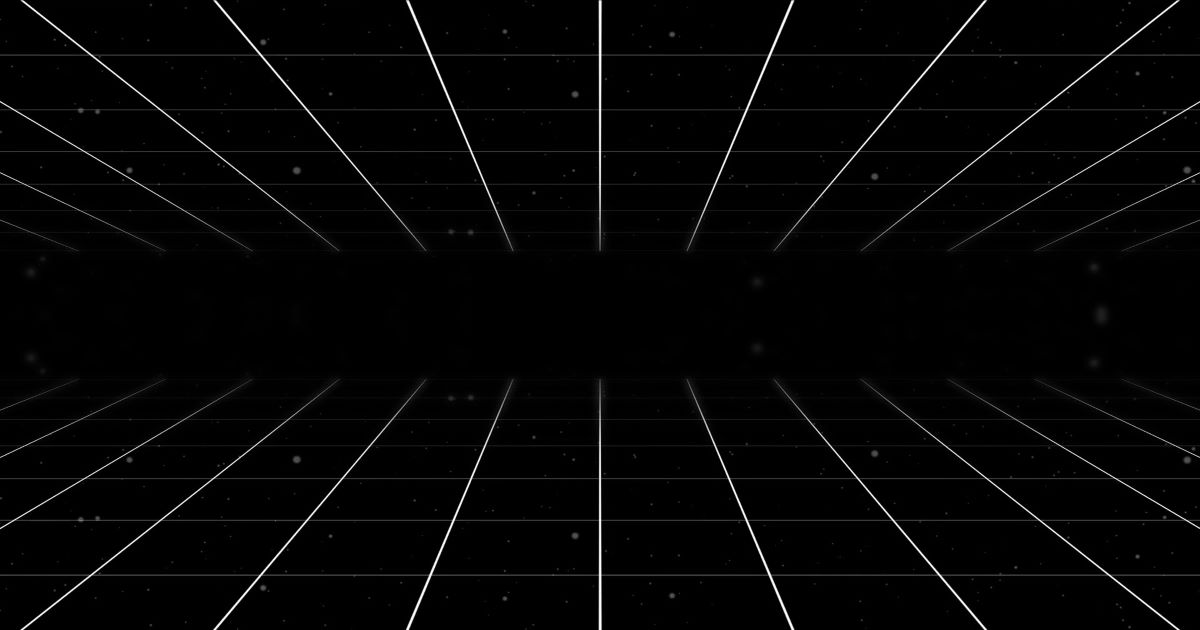
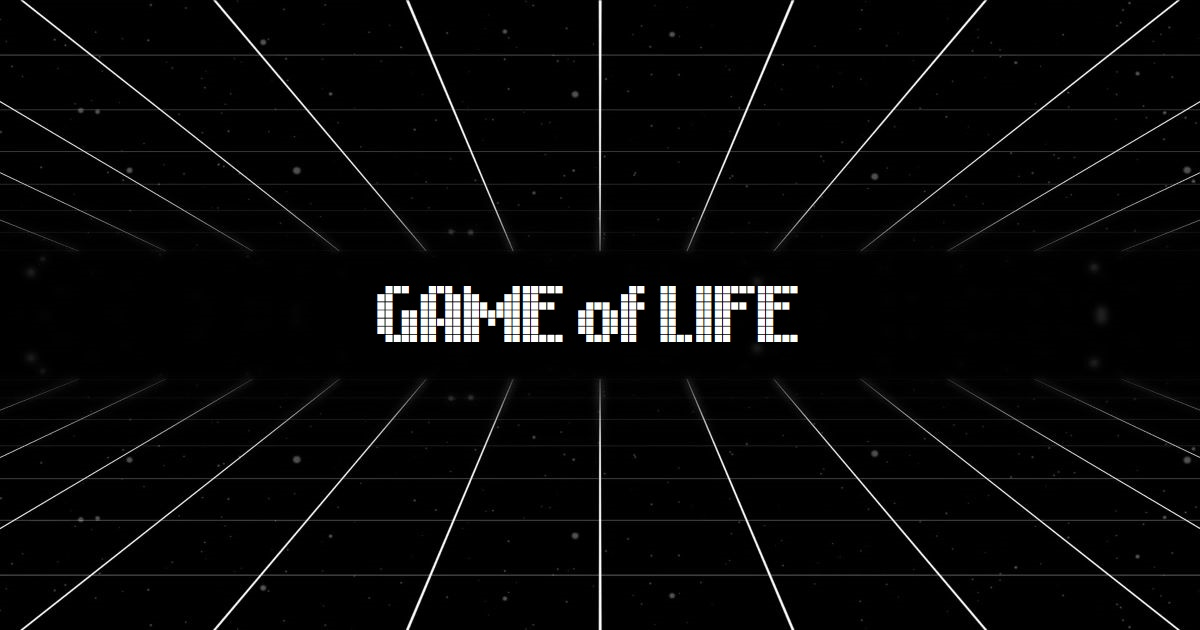
fix to og image

Changed region(s): [[0.3083, 0.4524, 0.6783, 0.5429]]

diff --git a/build/static/css/main.6c1cfc5a.chunk.css b/build/static/css/main.6c1cfc5a.chunk.css
@@ -1,0 +1,4 @@
+/*! tailwindcss v2.1.0 | MIT License | https://tailwindcss.com */
+
+/*! modern-normalize v1.0.0 | MIT License | https://github.com/sindresorhus/modern-normalize */:root{-moz-tab-size:4;tab-size:4}html{line-height:1.15;-webkit-text-size-adjust:100%}body{margin:0;font-family:system-ui,-apple-system,"Segoe UI",Roboto,Helvetica,Arial,sans-serif,"Apple Color Emoji","Segoe UI Emoji"}hr{height:0;color:inherit}abbr[title]{-webkit-text-decoration:underline dotted;text-decoration:underline dotted}b,strong{font-weight:bolder}code,kbd,pre,samp{font-family:ui-monospace,SFMono-Regular,Consolas,"Liberation Mono",Menlo,monospace;font-size:1em}small{font-size:80%}sub,sup{font-size:75%;line-height:0;position:relative;vertical-align:baseline}sub{bottom:-.25em}sup{top:-.5em}table{text-indent:0;border-color:inherit}button,input,optgroup,select,textarea{font-family:inherit;font-size:100%;line-height:1.15;margin:0}button,select{text-transform:none}[type=button],[type=submit],button{-webkit-appearance:button}legend{padding:0}progress{vertical-align:baseline}summary{display:list-item}blockquote,dd,dl,figure,h1,h2,h3,h4,h5,h6,hr,p,pre{margin:0}button{background-color:transparent;background-image:none}button:focus{outline:1px dotted;outline:5px auto -webkit-focus-ring-color}fieldset,ol,ul{margin:0;padding:0}ol,ul{list-style:none}html{font-family:ui-sans-serif,system-ui,-apple-system,BlinkMacSystemFont,"Segoe UI",Roboto,"Helvetica Neue",Arial,"Noto Sans",sans-serif,"Apple Color Emoji","Segoe UI Emoji","Segoe UI Symbol","Noto Color Emoji";line-height:1.5}body{font-family:inherit;line-height:inherit}*,:after,:before{box-sizing:border-box;border:0 solid #e5e7eb}hr{border-top-width:1px}img{border-style:solid}textarea{resize:vertical}input::-webkit-input-placeholder,textarea::-webkit-input-placeholder{opacity:1;color:#9ca3af}input:-ms-input-placeholder,textarea:-ms-input-placeholder{opacity:1;color:#9ca3af}input::placeholder,textarea::placeholder{opacity:1;color:#9ca3af}button{cursor:pointer}table{border-collapse:collapse}h1,h2,h3,h4,h5,h6{font-size:inherit;font-weight:inherit}a{color:inherit;text-decoration:inherit}button,input,optgroup,select,textarea{padding:0;line-height:inherit;color:inherit}code,kbd,pre,samp{font-family:ui-monospace,SFMono-Regular,Menlo,Monaco,Consolas,"Liberation Mono","Courier New",monospace}audio,canvas,embed,iframe,img,object,svg,video{display:block;vertical-align:middle}img,video{max-width:100%;height:auto}@font-face{font-family:Nokian;src:local("Nokian"),url(/static/media/Nokian.13072ad6.ttf) format("truetype")}@font-face{font-family:Bloxat;src:local("Bloxat"),url(/static/media/Bloxat.50277f50.ttf) format("truetype")}@font-face{font-family:McFont;src:local("McFont"),url(/static/media/McFont.82ba0891.otf) format("opentype")}b{--tw-text-opacity:1;color:rgba(229,231,235,var(--tw-text-opacity))}.space-y-3>:not([hidden])~:not([hidden]){--tw-space-y-reverse:0;margin-top:calc(0.75rem*(1 - var(--tw-space-y-reverse)));margin-bottom:calc(0.75rem*var(--tw-space-y-reverse))}.space-y-4>:not([hidden])~:not([hidden]){--tw-space-y-reverse:0;margin-top:calc(1rem*(1 - var(--tw-space-y-reverse)));margin-bottom:calc(1rem*var(--tw-space-y-reverse))}.bg-fixed{background-attachment:fixed}.bg-black{--tw-bg-opacity:1;background-color:rgba(0,0,0,var(--tw-bg-opacity))}.bg-white{--tw-bg-opacity:1;background-color:rgba(255,255,255,var(--tw-bg-opacity))}.bg-gray-200{--tw-bg-opacity:1;background-color:rgba(229,231,235,var(--tw-bg-opacity))}.bg-gray-500{--tw-bg-opacity:1;background-color:rgba(107,114,128,var(--tw-bg-opacity))}.bg-gray-800{--tw-bg-opacity:1;background-color:rgba(31,41,55,var(--tw-bg-opacity))}.bg-red-600{--tw-bg-opacity:1;background-color:rgba(220,38,38,var(--tw-bg-opacity))}.bg-yellow-600{--tw-bg-opacity:1;background-color:rgba(217,119,6,var(--tw-bg-opacity))}.bg-blue-600{--tw-bg-opacity:1;background-color:rgba(37,99,235,var(--tw-bg-opacity))}.hover\:bg-gray-900:hover{--tw-bg-opacity:1;background-color:rgba(17,24,39,var(--tw-bg-opacity))}.bg-gradient-to-r{background-image:linear-gradient(90deg,var(--tw-gradient-stops))}.from-gray-500{--tw-gradient-from:#6b7280;--tw-gradient-stops:var(--tw-gradient-from),var(--tw-gradient-to,rgba(107,114,128,0))}.to-gray-800{--tw-gradient-to:#1f2937}.bg-center{background-position:50%}.bg-cover{background-size:cover}.border-white{--tw-border-opacity:1;border-color:rgba(255,255,255,var(--tw-border-opacity))}.border-gray-200{--tw-border-opacity:1;border-color:rgba(229,231,235,var(--tw-border-opacity))}.border-gray-700{--tw-border-opacity:1;border-color:rgba(55,65,81,var(--tw-border-opacity))}.border-gray-900{--tw-border-opacity:1;border-color:rgba(17,24,39,var(--tw-border-opacity))}.border-opacity-50{--tw-border-opacity:0.5}.rounded-md{border-radius:.375rem}.rounded-xl{border-radius:.75rem}.rounded-full{border-radius:9999px}.border-2{border-width:2px}.border-4{border-width:4px}.border-8{border-width:8px}.border{border-width:1px}.border-t-0{border-top-width:0}.border-r-0{border-right-width:0}.border-b-0{border-bottom-width:0}.border-l-0{border-left-width:0}.cursor-pointer{cursor:pointer}.inline-block{display:inline-block}.flex{display:-webkit-flex;display:flex}.inline-flex{display:-webkit-inline-flex;display:inline-flex}.table{display:table}.grid{display:grid}.hidden{display:none}.flex-row{-webkit-flex-direction:row;flex-direction:row}.flex-col{-webkit-flex-direction:column;flex-direction:column}.items-center{-webkit-align-items:center;align-items:center}.items-baseline{-webkit-align-items:baseline;align-items:baseline}.justify-items-end{justify-items:end}.justify-center{-webkit-justify-content:center;justify-content:center}.justify-between{-webkit-justify-content:space-between;justify-content:space-between}.justify-around{-webkit-justify-content:space-around;justify-content:space-around}.flex-1{-webkit-flex:1 1 0%;flex:1 1 0%}.font-header{font-family:Nokian}.font-text{font-family:McFont}.font-semibold{font-weight:600}.font-bold{font-weight:700}.h-2{height:.5rem}.h-8{height:2rem}.h-12{height:3rem}.h-14{height:3.5rem}.h-16{height:4rem}.h-20{height:5rem}.h-48{height:12rem}.h-full{height:100%}.h-screen{height:100vh}.text-xs{font-size:.75rem;line-height:1rem}.text-sm{font-size:.875rem;line-height:1.25rem}.text-lg{font-size:1.125rem}.text-lg,.text-xl{line-height:1.75rem}.text-xl{font-size:1.25rem}.text-2xl{font-size:1.5rem;line-height:2rem}.text-5xl{font-size:3rem;line-height:1}.leading-relaxed{line-height:1.625}.my-2{margin-top:.5rem;margin-bottom:.5rem}.my-8{margin-top:2rem;margin-bottom:2rem}.mx-8{margin-left:2rem;margin-right:2rem}.mx-auto{margin-left:auto;margin-right:auto}.mt-1{margin-top:.25rem}.mt-2{margin-top:.5rem}.mb-2{margin-bottom:.5rem}.ml-2{margin-left:.5rem}.mt-3{margin-top:.75rem}.mb-3{margin-bottom:.75rem}.mt-4{margin-top:1rem}.mr-4{margin-right:1rem}.mt-5{margin-top:1.25rem}.mb-6{margin-bottom:1.5rem}.mt-8{margin-top:2rem}.min-h-full{min-height:100%}.min-h-screen{min-height:100vh}.min-w-full{min-width:100%}.opacity-90{opacity:.9}.focus\:outline-none:focus{outline:2px solid transparent;outline-offset:2px}.overflow-hidden{overflow:hidden}.overflow-x-auto{overflow-x:auto}.p-3{padding:.75rem}.py-1{padding-top:.25rem;padding-bottom:.25rem}.py-2{padding-top:.5rem;padding-bottom:.5rem}.px-6{padding-left:1.5rem;padding-right:1.5rem}.fixed{position:fixed}.absolute{position:absolute}.relative{position:relative}.inset-0{top:0;right:0;bottom:0;left:0}.right-2{right:.5rem}.bottom-2{bottom:.5rem}.left-5{left:1.25rem}.bottom-8{bottom:2rem}.right-12{right:3rem}*{--tw-shadow:0 0 transparent;--tw-ring-inset:var(--tw-empty,/*!*/ /*!*/);--tw-ring-offset-width:0px;--tw-ring-offset-color:#fff;--tw-ring-color:rgba(59,130,246,0.5);--tw-ring-offset-shadow:0 0 transparent;--tw-ring-shadow:0 0 transparent}.text-center{text-align:center}.text-right{text-align:right}.text-justify{text-align:justify}.text-white{--tw-text-opacity:1;color:rgba(255,255,255,var(--tw-text-opacity))}.text-gray-100{--tw-text-opacity:1;color:rgba(243,244,246,var(--tw-text-opacity))}.text-gray-200{--tw-text-opacity:1;color:rgba(229,231,235,var(--tw-text-opacity))}.text-gray-300{--tw-text-opacity:1;color:rgba(209,213,219,var(--tw-text-opacity))}.text-gray-400{--tw-text-opacity:1;color:rgba(156,163,175,var(--tw-text-opacity))}.align-bottom{vertical-align:bottom}.w-8{width:2rem}.w-14{width:3.5rem}.w-16{width:4rem}.w-28{width:7rem}.w-1\/2{width:50%}.w-2\/3{width:66.666667%}.w-full{width:100%}.w-max{width:-webkit-max-content;width:max-content}.z-0{z-index:0}.z-10{z-index:10}.z-20{z-index:20}.z-30{z-index:30}.gap-3{gap:.75rem}.grid-cols-3{grid-template-columns:repeat(3,minmax(0,1fr))}.transform{--tw-translate-x:0;--tw-translate-y:0;--tw-rotate:0;--tw-skew-x:0;--tw-skew-y:0;--tw-scale-x:1;--tw-scale-y:1;-webkit-transform:translateX(var(--tw-translate-x)) translateY(var(--tw-translate-y)) rotate(var(--tw-rotate)) skewX(var(--tw-skew-x)) skewY(var(--tw-skew-y)) scaleX(var(--tw-scale-x)) scaleY(var(--tw-scale-y));transform:translateX(var(--tw-translate-x)) translateY(var(--tw-translate-y)) rotate(var(--tw-rotate)) skewX(var(--tw-skew-x)) skewY(var(--tw-skew-y)) scaleX(var(--tw-scale-x)) scaleY(var(--tw-scale-y))}.hover\:scale-105:hover{--tw-scale-x:1.05;--tw-scale-y:1.05}.hover\:translate-y-1:hover{--tw-translate-y:0.25rem}.transition-all{transition-property:all;transition-timing-function:cubic-bezier(.4,0,.2,1);transition-duration:.15s}.transition{transition-property:background-color,border-color,color,fill,stroke,opacity,box-shadow,-webkit-transform,-webkit-filter,-webkit-backdrop-filter;transition-property:background-color,border-color,color,fill,stroke,opacity,box-shadow,transform,filter,backdrop-filter;transition-property:background-color,border-color,color,fill,stroke,opacity,box-shadow,transform,filter,backdrop-filter,-webkit-transform,-webkit-filter,-webkit-backdrop-filter;transition-timing-function:cubic-bezier(.4,0,.2,1)}.duration-150,.transition{transition-duration:.15s}@-webkit-keyframes spin{to{-webkit-transform:rotate(1turn);transform:rotate(1turn)}}@keyframes spin{to{-webkit-transform:rotate(1turn);transform:rotate(1turn)}}@-webkit-keyframes ping{75%,to{-webkit-transform:scale(2);transform:scale(2);opacity:0}}@keyframes ping{75%,to{-webkit-transform:scale(2);transform:scale(2);opacity:0}}@-webkit-keyframes pulse{50%{opacity:.5}}@keyframes pulse{50%{opacity:.5}}@-webkit-keyframes bounce{0%,to{-webkit-transform:translateY(-25%);transform:translateY(-25%);-webkit-animation-timing-function:cubic-bezier(.8,0,1,1);animation-timing-function:cubic-bezier(.8,0,1,1)}50%{-webkit-transform:none;transform:none;-webkit-animation-timing-function:cubic-bezier(0,0,.2,1);animation-timing-function:cubic-bezier(0,0,.2,1)}}@keyframes bounce{0%,to{-webkit-transform:translateY(-25%);transform:translateY(-25%);-webkit-animation-timing-function:cubic-bezier(.8,0,1,1);animation-timing-function:cubic-bezier(.8,0,1,1)}50%{-webkit-transform:none;transform:none;-webkit-animation-timing-function:cubic-bezier(0,0,.2,1);animation-timing-function:cubic-bezier(0,0,.2,1)}}.backdrop-filter{--tw-backdrop-blur:var(--tw-empty,/*!*/ /*!*/);--tw-backdrop-brightness:var(--tw-empty,/*!*/ /*!*/);--tw-backdrop-contrast:var(--tw-empty,/*!*/ /*!*/);--tw-backdrop-grayscale:var(--tw-empty,/*!*/ /*!*/);--tw-backdrop-hue-rotate:var(--tw-empty,/*!*/ /*!*/);--tw-backdrop-invert:var(--tw-empty,/*!*/ /*!*/);--tw-backdrop-opacity:var(--tw-empty,/*!*/ /*!*/);--tw-backdrop-saturate:var(--tw-empty,/*!*/ /*!*/);--tw-backdrop-sepia:var(--tw-empty,/*!*/ /*!*/);-webkit-backdrop-filter:var(--tw-backdrop-blur) var(--tw-backdrop-brightness) var(--tw-backdrop-contrast) var(--tw-backdrop-grayscale) var(--tw-backdrop-hue-rotate) var(--tw-backdrop-invert) var(--tw-backdrop-opacity) var(--tw-backdrop-saturate) var(--tw-backdrop-sepia);backdrop-filter:var(--tw-backdrop-blur) var(--tw-backdrop-brightness) var(--tw-backdrop-contrast) var(--tw-backdrop-grayscale) var(--tw-backdrop-hue-rotate) var(--tw-backdrop-invert) var(--tw-backdrop-opacity) var(--tw-backdrop-saturate) var(--tw-backdrop-sepia)}.backdrop-blur-sm{--tw-backdrop-blur:blur(4px)}.backdrop-blur-md{--tw-backdrop-blur:blur(12px)}*{-webkit-font-smoothing:antialiased;-moz-osx-font-smoothing:grayscale}body,html{min-height:100vh;height:100vh}@media (min-width:640px){.sm\:block{display:block}.sm\:font-text{font-family:McFont}.sm\:h-28{height:7rem}.sm\:px-6{padding-left:1.5rem;padding-right:1.5rem}.sm\:w-28{width:7rem}}@media (min-width:768px){.md\:text-xl{font-size:1.25rem;line-height:1.75rem}.md\:leading-relaxed{line-height:1.625}.md\:mr-10{margin-right:2.5rem}.md\:px-10{padding-left:2.5rem;padding-right:2.5rem}.md\:w-1\/2{width:50%}}@media (min-width:1024px){.lg\:mt-2{margin-top:.5rem}.lg\:inset-3{top:.75rem;right:.75rem;bottom:.75rem;left:.75rem}.lg\:w-2\/3{width:66.666667%}}@media (min-width:1280px){.xl\:text-xl{font-size:1.25rem;line-height:1.75rem}.xl\:text-3xl{font-size:1.875rem;line-height:2.25rem}.xl\:text-6xl{font-size:3.75rem;line-height:1}.xl\:w-2\/3{width:66.666667%}.xl\:w-3\/5{width:60%}.xl\:gap-8{gap:2rem}}@media (min-width:1536px){.\32xl\:space-y-5>:not([hidden])~:not([hidden]){--tw-space-y-reverse:0;margin-top:calc(1.25rem*(1 - var(--tw-space-y-reverse)));margin-bottom:calc(1.25rem*var(--tw-space-y-reverse))}.\32xl\:justify-around{-webkit-justify-content:space-around;justify-content:space-around}.\32xl\:font-semibold{font-weight:600}.\32xl\:font-bold{font-weight:700}.\32xl\:h-28{height:7rem}.\32xl\:h-52{height:13rem}.\32xl\:h-3\/4{height:75%}.\32xl\:h-5\/6{height:83.333333%}.\32xl\:text-sm{font-size:.875rem;line-height:1.25rem}.\32xl\:text-lg{font-size:1.125rem;line-height:1.75rem}.\32xl\:text-xl{font-size:1.25rem;line-height:1.75rem}.\32xl\:text-2xl{font-size:1.5rem;line-height:2rem}.\32xl\:text-3xl{font-size:1.875rem;line-height:2.25rem}.\32xl\:text-4xl{font-size:2.25rem;line-height:2.5rem}.\32xl\:leading-relaxed{line-height:1.625}.\32xl\:mt-2{margin-top:.5rem}.\32xl\:py-3{padding-top:.75rem;padding-bottom:.75rem}.\32xl\:px-20{padding-left:5rem;padding-right:5rem}.\32xl\:inset-8{top:2rem;right:2rem;bottom:2rem;left:2rem}.\32xl\:w-36{width:9rem}.\32xl\:w-1\/2{width:50%}.\32xl\:w-1\/3{width:33.333333%}.\32xl\:w-3\/5{width:60%}.\32xl\:gap-10{gap:2.5rem}}
+/*# sourceMappingURL=main.6c1cfc5a.chunk.css.map */

diff --git a/build/static/js/main.021b3de7.chunk.js b/build/static/js/main.021b3de7.chunk.js
@@ -1,0 +1,2 @@
+(this["webpackJsonpgame-of-life"]=this["webpackJsonpgame-of-life"]||[]).push([[0],{43:function(e,t,l){},44:function(e,t,l){"use strict";l.r(t);var i=l(1),s=l.n(i),n=l(24),r=l.n(n),c=l(3),a=l(27),o=l(10),x=l(9),d=l(5),b=l(23),j=l(17),m=l(20),h=l(0),f=Object(h.jsx)(d.a,{className:"align-bottom mr-4 md:mr-10 text-gray-100",icon:x.f,size:"xs",listitem:"true"}),u=function(e){var t=e.onClick;return Object(h.jsx)("div",{className:"min-h-screen font-text min-w-full flex justify-center items-center z-20 fixed backdrop-filter backdrop-blur-sm",children:Object(h.jsxs)("div",{className:"w-1/2 h-full 2xl:h-3/4 absolute z-30 flex flex-col justify-around p-3 opacity-90 items-center bg-black border-gray-900 border-8 border-opacity-50 rounded-md",children:[Object(h.jsx)("h2",{className:"text-2xl 2xl:text-4xl",children:"Tutorial"}),Object(h.jsxs)("ul",{className:"text-sm 2xl:text-lg font-bold 2xl:font-base text-gray-400 px-6 space-y-3 2xl:space-y-5 leading-relaxed",children:[Object(h.jsxs)("li",{className:"inline-flex items-baseline",children:[f,Object(h.jsxs)("p",{children:["Set your world's dimensions with ",Object(h.jsx)("b",{children:"height & width "}),"located on the panel's left. It is best not to exceed the screen resolution by using ",Object(h.jsx)("b",{children:"width"}),"."]})]}),Object(h.jsx)("p",{className:"text-xs 2xl:text-sm text-gray-200 2xl:font-semibold text-center",children:"(Remember to press Save! This will re-generate the world.)"}),Object(h.jsxs)("li",{className:"inline-flex items-baseline",children:[f," ",Object(h.jsxs)("p",{children:["Center of the panel utilizes commands:"," ",Object(h.jsx)("b",{children:"Start/Pause, Wipe Out and Randomize"})," the World respectively."]})]}),Object(h.jsxs)("li",{className:"inline-flex items-baseline",children:[f,Object(h.jsxs)("p",{children:["You can either use a randomly generated world or click on specific cells to make them alive and vice versa. Then start your world by pressing ",Object(h.jsx)("b",{children:"Initiate"}),"."]})]}),Object(h.jsxs)("li",{className:"inline-flex items-baseline",children:[f,Object(h.jsxs)("p",{children:["The right side contains ",Object(h.jsx)("b",{children:"Live Values"}),", which means that any interference will result in an ",Object(h.jsx)("b",{children:"immediate change"})," in the World. ",Object(h.jsx)("b",{children:"Cell size"})," is counted in pixels, ",Object(h.jsx)("b",{children:"Speed"})," in milliseconds (duration of 1 generation)."]})]}),Object(h.jsx)("p",{className:"text-gray-200 text-center",children:"You can bring into being as many cells as you like, but the trick is to form a sustainable life using only a few of them!"})]}),Object(h.jsx)("button",{className:"bg-gradient-to-r 2xl:font-bold from-gray-500 to-gray-800 focus:outline-none py-2 2xl:py-3 w-2/3 xl:w-3/5 2xl:w-1/2",onClick:t,children:"Got it!"}),Object(h.jsx)("div",{className:"absolute h-8 w-8 border-4 border-l-0 border-t-0 border-white z-30 bottom-2 right-2"})]})})},g=function(e){var t=e.onClick,l=e.className,i=e.text;return Object(h.jsxs)("div",{onClick:t,className:l,children:[Object(h.jsxs)("span",{className:"w-14 h-14 flex justify-center items-center bg-gradient-to-r from-gray-500 to-gray-800 rounded-full",children:[" ",Object(h.jsx)(d.a,{size:"lg",icon:x.a})]}),Object(h.jsx)("p",{className:"hidden sm:block mt-1 ",children:i})]})},O=l(26),y=l(11),p=function(e){var t=e.article,l=e.className,i=e.text;return Object(h.jsxs)(y.b,{to:{pathname:"https://en.wikipedia.org/w/index.php?title=Conway%27s_Game_of_Life&oldid=1014218578".concat(t)},className:l,target:"_blank",children:[Object(h.jsxs)("span",{className:"w-14 h-14 flex justify-center items-center bg-gradient-to-r from-gray-500 to-gray-800 rounded-full",children:[" ",Object(h.jsx)(d.a,{size:"lg",icon:O.a})]}),Object(h.jsx)("p",{className:"hidden sm:block mt-1 ",children:i})]})},w=function(){var e=Object(i.useState)({height:30,width:50}),t=Object(o.a)(e,2),l=t[0],s=t[1],n=Object(i.useState)(!0),r=Object(o.a)(n,2),c=r[0],f=r[1],O=function(e){var t=Object(i.useState)(e),l=Object(o.a)(t,2),s=l[0],n=l[1];return[s,function(e){n(Object(m.a)(Object(m.a)({},s),{},Object(j.a)({},e.target.name,e.target.value)))}]}({cellSize:20,gridWidth:50,gridHeight:30,speed:150}),y=Object(o.a)(O,2),w=y[0],v=y[1],N=l.height,k=l.width,z=Object(i.useState)((function(){return Array(N).fill(Array(k).fill(0))})),C=Object(o.a)(z,2),S=C[0],F=C[1],W=Object(i.useState)(!1),A=Object(o.a)(W,2),I=A[0],E=A[1],H=Object(i.useRef)(I);H.current=I;var T=[[0,1],[0,-1],[1,-1],[-1,1],[1,1],[-1,-1],[1,0],[-1,0]],L=function(e,t){var l=Object(b.a)(S,(function(l){l[e][t]=1-S[e][t]}));F(l)},_=Object(i.useCallback)((function(){H.current&&F((function(e){return Object(b.a)(e,(function(t){for(var l=function(l){for(var i=function(i){var s=0;T.forEach((function(t){var n=Object(o.a)(t,2),r=n[0],c=n[1],a=l+r,x=i+c;a>=0&&a<N&&x>=0&&x<k&&(s+=e[a][x])})),s<2||s>3?t[l][i]=0:0===e[l][i]&&3===s&&(t[l][i]=1)},s=0;s<k;s++)i(s)},i=0;i<N;i++)l(i)}))}))}),[l,S]);return Object(i.useEffect)((function(){var e=setInterval(_,w.speed);return function(){return clearInterval(e)}}),[_]),Object(h.jsxs)("div",{style:{backgroundImage:"url(/game-of-life/poster.jpg)"},className:"flex flex-col bg-black font-text bg-cover bg-fixed bg-center text-white min-h-screen h-full min-w-full",children:[Object(h.jsxs)("div",{className:"backdrop-filter backdrop-blur-md grid grid-cols-3 w-full h-48 2xl:h-52",children:[Object(h.jsxs)("div",{className:"w-full mt-4",children:[" ",Object(h.jsx)("h2",{className:"text-2xl 2xl:text-3xl mb-2 text-center",children:"World size :"}),Object(h.jsxs)("form",{className:"w-full flex flex-col items-center 2xl:text-xl",onSubmit:function(e){e.preventDefault(),F(Array(Number(w.gridHeight)).fill(Array(Number(w.gridWidth)).fill(0))),s({height:Number(w.gridHeight),width:Number(w.gridWidth)})},children:[Object(h.jsxs)("div",{className:"font-semibold my-2 flex flex-row w-2/3 xl:w-3/5 2xl:w-1/2 justify-between",children:[Object(h.jsx)("label",{htmlFor:"gridHeight",children:"Height:"}),Object(h.jsx)("input",{value:w.gridHeight,name:"gridHeight",id:"gridHeight",type:"number",onChange:v,className:"ml-2 bg-gray-500 text-right w-1/2 focus:outline-none"})]}),Object(h.jsxs)("div",{className:"font-semibold my-2 flex flex-row w-2/3 xl:w-3/5 2xl:w-1/2 justify-between",children:[Object(h.jsx)("label",{htmlFor:"gridWidth",children:"Width:"}),Object(h.jsx)("input",{value:w.gridWidth,name:"gridWidth",id:"gridWidth",type:"number",onChange:v,className:"ml-2 bg-gray-500 text-right w-1/2 focus:outline-none"})]}),Object(h.jsx)("button",{className:"mt-2 bg-gradient-to-r focus:outline-none font-bold from-gray-500 to-gray-800 px-6 py-1 w-2/3 xl:w-3/5 2xl:w-1/2",type:"submit",children:"Save"})]})]}),Object(h.jsxs)("div",{className:"flex flex-col items-center justify-around bg-gradient-to-r from-gray-500 to-gray-800",children:[Object(h.jsx)("h1",{className:" font-header text-5xl text-center",children:"GAME of LIFE"}),Object(h.jsxs)("div",{className:"grid grid-cols-3 gap-3 xl:gap-8 2xl:mt-2 2xl:gap-10",children:[Object(h.jsxs)("button",{className:"flex flex-col text-white items-center text-sm font-bold border-2 rounded-xl hover:bg-gray-900 focus:outline-none border-gray-200 justify-around h-20 w-28  2xl:text-lg 2xl:h-28 2xl:w-36 "+(I?"bg-gray-800":""),onClick:function(){E(!I),I||(H.current=!0,_())},children:[" ",I?Object(h.jsxs)(h.Fragment,{children:[Object(h.jsx)(d.a,{icon:x.d,size:"3x"}),"Restrain"]}):Object(h.jsxs)(h.Fragment,{children:[Object(h.jsx)(d.a,{icon:x.c,size:"3x"}),"Initiate"]})]}),Object(h.jsxs)("button",{className:"flex flex-col text-white items-center text-sm font-bold border-2 rounded-xl hover:bg-gray-900 focus:outline-none border-gray-200 justify-around h-20 w-28  2xl:text-lg 2xl:h-28 2xl:w-36",onClick:function(){F(Array(N).fill(Array(k).fill(0)))},children:[Object(h.jsx)(d.a,{icon:x.e,size:"3x"}),"Obliviate"]}),Object(h.jsxs)("button",{className:"flex flex-col text-white items-center text-sm font-bold border-2 rounded-xl hover:bg-gray-900 focus:outline-none border-gray-200 justify-around h-20 w-28  2xl:text-lg 2xl:h-28 2xl:w-36",onClick:function(){for(var e=Object(a.a)(S),t=0;t<N;t++)e[t]=e[t].map((function(e){return Math.random()>.8?1:0}));F(e)},children:[" ",Object(h.jsx)(d.a,{icon:x.b,size:"3x"}),"Scattershot"]})]})]}),Object(h.jsxs)("div",{className:"w-full mt-4 flex flex-col items-center",children:[Object(h.jsx)("h2",{className:"text-2xl 2xl:text-3xl text-center mb-6",children:"Live values :"}),Object(h.jsxs)("div",{className:"font-semibold 2xl:text-xl my-2 flex flex-row w-2/3  xl:w-3/5 2xl:w-1/2 justify-between",children:[Object(h.jsx)("label",{htmlFor:"cellSize",children:"Cell size:"}),Object(h.jsx)("input",{value:w.cellSize,id:"cellSize",name:"cellSize",type:"number",onChange:v,className:"ml-2  bg-gray-500 text-right focus:outline-none md:w-1/2"})]}),Object(h.jsxs)("div",{className:"font-semibold my-2 2xl:text-xl flex flex-row w-2/3 xl:w-3/5 2xl:w-1/2 justify-between",children:[Object(h.jsx)("label",{htmlFor:"speed",children:"Speed:"}),Object(h.jsx)("input",{value:w.speed,name:"speed",id:"speed",type:"number",onChange:v,className:"ml-2 bg-gray-500 text-right focus:outline-none md:w-1/2"})]})]})]}),Object(h.jsx)("div",{className:"bg-gradient-to-r from-gray-500 to-gray-800 w-full h-2"}),Object(h.jsx)("div",{className:"overflow-x-auto min-h-full flex-1 inline-block mt-8 mx-8",children:Object(h.jsx)("div",{className:"grid border border-b-0 border-r-0 border-gray-700 w-max mx-auto",style:{grid:"repeat(".concat(l.height,", ").concat(w.cellSize,"px)/ repeat(").concat(l.width,", ").concat(w.cellSize,"px)")},children:S.map((function(e,t){return e.map((function(e,l){return Object(h.jsx)("div",{className:"w-full h-full border border-t-0 border-l-0 border-gray-700 "+(S[t][l]?"bg-gray-200":""),onClick:function(){return L(t,l)}},"".concat(t,"-").concat(l))}))}))})}),c&&Object(h.jsx)(u,{onClick:function(){f(!c)}}),Object(h.jsx)(g,{className:"transition-all fixed flex flex-col cursor-pointer items-center bottom-8 right-12 text-gray-300 font-bold",text:"Tutorial",onClick:function(){return f(!c)}}),Object(h.jsx)(p,{className:"fixed flex flex-col items-center bottom-8 left-5 text-gray-300 font-bold",text:"Examples of patterns",article:"#Examples_of_patterns"})]})},v=Object(h.jsx)(d.a,{className:"align-bottom mr-4 md:mr-10 text-gray-100",icon:x.f,size:"xs",listitem:"true"}),N=function(){return Object(h.jsxs)("div",{className:"text-white text-justify text-xl sm:font-text flex justify-center items-center z-0 h-screen overflow-hidden w-full bg-black",children:[Object(h.jsxs)("div",{className:"lg:w-2/3 xl:w-2/3 2xl:w-3/5 2xl:h-5/6 relative flex p-3 opacity-90 flex-col justify-between 2xl:justify-around items-center h-full z-10 bg-black border-gray-900 border-8 border-opacity-50 rounded-md",children:[Object(h.jsx)(p,{text:"Wiki article",className:"text-gray-300 cursor-pointer w-16 h-16 absolute inset-0 lg:inset-3 2xl:inset-8 flex flex-col justify-center items-center sm:w-28 sm:h-28"}),Object(h.jsx)("h1",{className:"text-center font-header my-8 text-5xl xl:text-6xl",children:"GAME of LIFE"}),Object(h.jsx)("h2",{className:"text-2xl xl:text-3xl 2xl:text-3xl mt-5",children:"There are only 4 rules :"}),Object(h.jsxs)("ul",{className:"mt-3 ml-2 sm:px-6 md:leading-relaxed md:px-10 2xl:px-20 text-gray-400 text-lg md:text-xl xl:text-xl 2xl:leading-relaxed space-y-4",children:[Object(h.jsxs)("li",{className:"inline-flex font-base items-baseline",children:[" ",v,Object(h.jsxs)("p",{children:["Any live cell with ",Object(h.jsx)("b",{children:"fewer than two"})," live neighbours dies, as if by underpopulation."]})]})," ",Object(h.jsxs)("li",{className:"inline-flex items-baseline",children:[v,Object(h.jsxs)("p",{children:["Any live cell with ",Object(h.jsx)("b",{children:"two or three"})," live neighbours lives on to the next generation."]})]}),Object(h.jsxs)("li",{className:"inline-flex items-baseline",children:[v,Object(h.jsxs)("p",{children:["Any live cell with ",Object(h.jsx)("b",{children:"more than three"})," live neighbours dies, as if by overpopulation."]})]}),Object(h.jsxs)("li",{className:"inline-flex items-baseline",children:[v,Object(h.jsxs)("p",{children:["Any dead cell with ",Object(h.jsx)("b",{children:"exactly three"})," live neighbours becomes a live cell, as if by reproduction."]})]})]}),Object(h.jsxs)(y.b,{className:"justify-items-end mb-3 w-1/2 2xl:w-1/3 h-12 lg:mt-2",to:"/game-of-life/play",children:[" ",Object(h.jsx)("button",{className:"transition duration-150 transform hover:translate-y-1 hover:scale-105 w-full h-full text-xl 2xl:text-2xl bg-gradient-to-r from-gray-500 to-gray-800",children:"Begin"})]})]}),Object(h.jsx)("video",{className:"z-0 fixed hidden sm:block",id:"background",poster:"/game-of-life/poster.jpg",autoPlay:!0,muted:!0,loop:!0,children:Object(h.jsx)("source",{src:"/game-of-life/background.mp4",type:"video/mp4"})})]})},k=function(){return Object(h.jsx)(h.Fragment,{children:Object(h.jsxs)(c.d,{children:[Object(h.jsx)(c.b,{path:"/game-of-life",exact:!0,component:N}),Object(h.jsx)(c.b,{path:"/game-of-life/play",component:w}),Object(h.jsx)(c.a,{exact:!0,to:"/game-of-life"})]})})},z=(l(43),function(e){e&&e instanceof Function&&l.e(3).then(l.bind(null,45)).then((function(t){var l=t.getCLS,i=t.getFID,s=t.getFCP,n=t.getLCP,r=t.getTTFB;l(e),i(e),s(e),n(e),r(e)}))});r.a.render(Object(h.jsx)(s.a.StrictMode,{children:Object(h.jsx)(y.a,{children:Object(h.jsx)(k,{})})}),document.getElementById("root")),z()}},[[44,1,2]]]);
+//# sourceMappingURL=main.021b3de7.chunk.js.map

diff --git a/build/index.html b/build/index.html
@@ -1,1 +1,1 @@
-<!doctype html><html lang="en"><head><meta charset="utf-8"/><link rel="icon" href="/favicon.ico"/><meta name="viewport" content="width=device-width,initial-scale=1"/><meta name="theme-color" content="#000000"/><meta name="description" content="Futuristic setting of Convay's Game of Life "/><link rel="apple-touch-icon" href="/logo192.png"/><link rel="manifest" href="/manifest.json"/><title>Game of Life | Mateusz Lasoń</title><link href="/static/css/main.06c43899.chunk.css" rel="stylesheet"></head><body><noscript>You need to enable JavaScript to run this app.</noscript><div id="root"></div><script>!function(e){function r(r){for(var n,a,i=r[0],c=r[1],l=r[2],s=0,p=[];s<i.length;s++)a=i[s],Object.prototype.hasOwnProperty.call(o,a)&&o[a]&&p.push(o[a][0]),o[a]=0;for(n in c)Object.prototype.hasOwnProperty.call(c,n)&&(e[n]=c[n]);for(f&&f(r);p.length;)p.shift()();return u.push.apply(u,l||[]),t()}function t(){for(var e,r=0;r<u.length;r++){for(var t=u[r],n=!0,i=1;i<t.length;i++){var c=t[i];0!==o[c]&&(n=!1)}n&&(u.splice(r--,1),e=a(a.s=t[0]))}return e}var n={},o={1:0},u=[];function a(r){if(n[r])return n[r].exports;var t=n[r]={i:r,l:!1,exports:{}};return e[r].call(t.exports,t,t.exports,a),t.l=!0,t.exports}a.e=function(e){var r=[],t=o[e];if(0!==t)if(t)r.push(t[2]);else{var n=new Promise((function(r,n){t=o[e]=[r,n]}));r.push(t[2]=n);var u,i=document.createElement("script");i.charset="utf-8",i.timeout=120,a.nc&&i.setAttribute("nonce",a.nc),i.src=function(e){return a.p+"static/js/"+({}[e]||e)+"."+{3:"a9eb6325"}[e]+".chunk.js"}(e);var c=new Error;u=function(r){i.onerror=i.onload=null,clearTimeout(l);var t=o[e];if(0!==t){if(t){var n=r&&("load"===r.type?"missing":r.type),u=r&&r.target&&r.target.src;c.message="Loading chunk "+e+" failed.\n("+n+": "+u+")",c.name="ChunkLoadError",c.type=n,c.request=u,t[1](c)}o[e]=void 0}};var l=setTimeout((function(){u({type:"timeout",target:i})}),12e4);i.onerror=i.onload=u,document.head.appendChild(i)}return Promise.all(r)},a.m=e,a.c=n,a.d=function(e,r,t){a.o(e,r)||Object.defineProperty(e,r,{enumerable:!0,get:t})},a.r=function(e){"undefined"!=typeof Symbol&&Symbol.toStringTag&&Object.defineProperty(e,Symbol.toStringTag,{value:"Module"}),Object.defineProperty(e,"__esModule",{value:!0})},a.t=function(e,r){if(1&r&&(e=a(e)),8&r)return e;if(4&r&&"object"==typeof e&&e&&e.__esModule)return e;var t=Object.create(null);if(a.r(t),Object.defineProperty(t,"default",{enumerable:!0,value:e}),2&r&&"string"!=typeof e)for(var n in e)a.d(t,n,function(r){return e[r]}.bind(null,n));return t},a.n=function(e){var r=e&&e.__esModule?function(){return e.default}:function(){return e};return a.d(r,"a",r),r},a.o=function(e,r){return Object.prototype.hasOwnProperty.call(e,r)},a.p="/",a.oe=function(e){throw console.error(e),e};var i=this["webpackJsonpgame-of-life"]=this["webpackJsonpgame-of-life"]||[],c=i.push.bind(i);i.push=r,i=i.slice();for(var l=0;l<i.length;l++)r(i[l]);var f=c;t()}([])</script><script src="/static/js/2.fe431b89.chunk.js"></script><script src="/static/js/main.d8ee8752.chunk.js"></script></body></html>
+<!doctype html><html lang="en"><head><meta charset="utf-8"/><link rel="icon" href="/favicon.ico"/><meta name="viewport" content="width=device-width,initial-scale=1"/><meta name="theme-color" content="#000000"/><meta name="description" content="Futuristic setting of Convay's Game of Life"/><meta property="og:title" content="Game of Life | Mateusz Lasoń"/><meta property="og:description" content="Play Convay's Game of Life in a futuristic setting!"/><meta property="og:url" content="https://mateuszlason.github.io/game-of-life"/><meta property="og:image" content="https://mateuszlason.github.io/game-of-life/og-gameoflife.jpg"/><link rel="apple-touch-icon" href="/logo192.png"/><link rel="manifest" href="/manifest.json"/><title>Game of Life | Mateusz Lasoń</title><link href="/static/css/main.6c1cfc5a.chunk.css" rel="stylesheet"></head><body><noscript>You need to enable JavaScript to run this app.</noscript><div id="root"></div><script>!function(e){function r(r){for(var n,a,i=r[0],c=r[1],l=r[2],s=0,p=[];s<i.length;s++)a=i[s],Object.prototype.hasOwnProperty.call(o,a)&&o[a]&&p.push(o[a][0]),o[a]=0;for(n in c)Object.prototype.hasOwnProperty.call(c,n)&&(e[n]=c[n]);for(f&&f(r);p.length;)p.shift()();return u.push.apply(u,l||[]),t()}function t(){for(var e,r=0;r<u.length;r++){for(var t=u[r],n=!0,i=1;i<t.length;i++){var c=t[i];0!==o[c]&&(n=!1)}n&&(u.splice(r--,1),e=a(a.s=t[0]))}return e}var n={},o={1:0},u=[];function a(r){if(n[r])return n[r].exports;var t=n[r]={i:r,l:!1,exports:{}};return e[r].call(t.exports,t,t.exports,a),t.l=!0,t.exports}a.e=function(e){var r=[],t=o[e];if(0!==t)if(t)r.push(t[2]);else{var n=new Promise((function(r,n){t=o[e]=[r,n]}));r.push(t[2]=n);var u,i=document.createElement("script");i.charset="utf-8",i.timeout=120,a.nc&&i.setAttribute("nonce",a.nc),i.src=function(e){return a.p+"static/js/"+({}[e]||e)+"."+{3:"a9eb6325"}[e]+".chunk.js"}(e);var c=new Error;u=function(r){i.onerror=i.onload=null,clearTimeout(l);var t=o[e];if(0!==t){if(t){var n=r&&("load"===r.type?"missing":r.type),u=r&&r.target&&r.target.src;c.message="Loading chunk "+e+" failed.\n("+n+": "+u+")",c.name="ChunkLoadError",c.type=n,c.request=u,t[1](c)}o[e]=void 0}};var l=setTimeout((function(){u({type:"timeout",target:i})}),12e4);i.onerror=i.onload=u,document.head.appendChild(i)}return Promise.all(r)},a.m=e,a.c=n,a.d=function(e,r,t){a.o(e,r)||Object.defineProperty(e,r,{enumerable:!0,get:t})},a.r=function(e){"undefined"!=typeof Symbol&&Symbol.toStringTag&&Object.defineProperty(e,Symbol.toStringTag,{value:"Module"}),Object.defineProperty(e,"__esModule",{value:!0})},a.t=function(e,r){if(1&r&&(e=a(e)),8&r)return e;if(4&r&&"object"==typeof e&&e&&e.__esModule)return e;var t=Object.create(null);if(a.r(t),Object.defineProperty(t,"default",{enumerable:!0,value:e}),2&r&&"string"!=typeof e)for(var n in e)a.d(t,n,function(r){return e[r]}.bind(null,n));return t},a.n=function(e){var r=e&&e.__esModule?function(){return e.default}:function(){return e};return a.d(r,"a",r),r},a.o=function(e,r){return Object.prototype.hasOwnProperty.call(e,r)},a.p="/",a.oe=function(e){throw console.error(e),e};var i=this["webpackJsonpgame-of-life"]=this["webpackJsonpgame-of-life"]||[],c=i.push.bind(i);i.push=r,i=i.slice();for(var l=0;l<i.length;l++)r(i[l]);var f=c;t()}([])</script><script src="/static/js/2.fe431b89.chunk.js"></script><script src="/static/js/main.021b3de7.chunk.js"></script></body></html>
